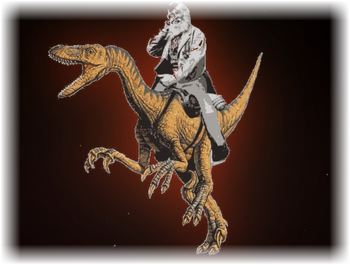
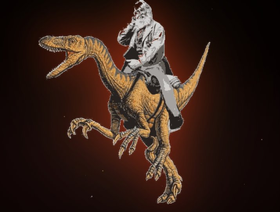
v0.8: Opaque image (no alpha bleed), 9s spacious descent, 175px landed
FIXES:
- Walt image is now opaque JPEG (RGB, no alpha channel) — impossible
  to bleed through. Dark background is baked into the image itself.
- Image lands at 175px (was 210px) — much more breathing room.
- 9-second descent from scale(0.015) at -180vh — 24 keyframe stages.
  The first 33% covers only the top half. A speck becoming a figure.
- Easing curve 0.08,0.72,0.25,1 — extremely slow start, long hang.
- Stars component removed (real Milky Way photo is the starfield).
- Phase timings: title at 9.2s, subtitle at 10.4s, button at 11.6s.

Changed region(s): [[0.0, 0.0, 1.0, 1.0]]

diff --git a/src/App.jsx b/src/App.jsx
@@ -22,9 +22,9 @@ function Splash({ onEnter, imgSrc, hornSrc }) {
   const [souls, setSouls] = useState(null);
 
   useEffect(() => {
-    const t1 = setTimeout(() => setPhase(1), 7000);
-    const t2 = setTimeout(() => setPhase(2), 8200);
-    const t3 = setTimeout(() => setPhase(3), 9400);
+    const t1 = setTimeout(() => setPhase(1), 9200);
+    const t2 = setTimeout(() => setPhase(2), 10400);
+    const t3 = setTimeout(() => setPhase(3), 11600);
     fetch("/api/count").then(r => r.json()).then(d => setSouls(d.count)).catch(() => {});
     return () => { clearTimeout(t1); clearTimeout(t2); clearTimeout(t3); };
   }, []);
@@ -56,12 +56,12 @@ function Splash({ onEnter, imgSrc, hornSrc }) {
         transition: "margin-bottom 1.5s ease",
       }}>
         <div style={{
-          animation: phase === 0 ? "paperMario 7s cubic-bezier(0.12,0.7,0.28,1) forwards" : "none",
+          animation: phase === 0 ? "paperMario 9s cubic-bezier(0.08,0.72,0.25,1) forwards" : "none",
           transform: phase >= 1 ? "translateY(0) rotateY(0deg) scale(1)" : undefined,
           transformStyle: "preserve-3d",
         }}>
           <img src={imgSrc} alt="Walt Whitman, Cowboy of Time, astride his dinosaur steed" style={{
-            width: "min(210px, 42vw)", height: "auto",
+            width: "min(175px, 35vw)", height: "auto",
             borderRadius: 4,
             transition: "all 1.5s ease",
           }} />
@@ -147,27 +147,7 @@ function Splash({ onEnter, imgSrc, hornSrc }) {
   );
 }
 
-function Stars() {
-  const stars = useRef(Array.from({ length: 160 }, (_, i) => ({
-    x: Math.random() * 100, y: Math.random() * 100,
-    s: i < 30 ? Math.random() * 2.5 + 1 : i < 80 ? Math.random() * 1.2 + 0.4 : Math.random() * 0.7 + 0.2,
-    d: 2 + Math.random() * 5,
-    o: i < 30 ? 0.4 + Math.random() * 0.4 : i < 80 ? 0.15 + Math.random() * 0.35 : 0.08 + Math.random() * 0.2,
-    r: 180 + Math.random() * 75, g: 120 + Math.random() * 100, b: 60 + Math.random() * 120,
-  }))).current;
-  return (
-    <div style={{ position: "absolute", inset: 0, pointerEvents: "none" }}>
-      {stars.map((s, i) => (
-        <div key={i} style={{
-          position: "absolute", width: s.s, height: s.s, borderRadius: "50%",
-          background: `rgba(${s.r},${s.g},${s.b},${s.o})`,
-          left: `${s.x}%`, top: `${s.y}%`,
-          animation: `twinkle ${s.d}s ease-in-out infinite ${Math.random() * 5}s`,
-        }} />
-      ))}
-    </div>
-  );
-}
+
 
 /* ─── EXPANDABLE TREE ─── */
 
@@ -578,7 +558,7 @@ export default function App() {
     }).catch(() => {});
 
     fetch("/walt_tree_data.json").then(r => r.json()).then(setTreeData).catch(() => {});
-    fetch("/whitman_on_a_dinosaur.png").then(r => r.blob()).then(b => setImgSrc(URL.createObjectURL(b))).catch(() => {});
+    fetch("/whitman_on_a_dinosaur.jpg").then(r => r.blob()).then(b => setImgSrc(URL.createObjectURL(b))).catch(() => {});
     fetch("/horn_logo.png").then(r => r.blob()).then(b => setHornSrc(URL.createObjectURL(b))).catch(() => {});
   }, []);
 
@@ -586,29 +566,30 @@ export default function App() {
     <>
       <style>{`
         @keyframes paperMario {
-          0%  { transform: translateY(-150vh) rotateY(0deg) scale(0.03); opacity: 0; }
-          2%  { transform: translateY(-148vh) rotateY(30deg) scale(0.035); opacity: 0.15; }
-          5%  { transform: translateY(-142vh) rotateY(90deg) scale(0.045); opacity: 0.3; }
-          9%  { transform: translateY(-132vh) rotateY(200deg) scale(0.06); opacity: 0.45; }
-          14% { transform: translateY(-118vh) rotateY(360deg) scale(0.09); opacity: 0.55; }
-          19% { transform: translateY(-104vh) rotateY(520deg) scale(0.13); opacity: 0.65; }
-          25% { transform: translateY(-88vh) rotateY(700deg) scale(0.18); opacity: 0.75; }
-          31% { transform: translateY(-74vh) rotateY(860deg) scale(0.25); opacity: 0.82; }
-          37% { transform: translateY(-60vh) rotateY(1000deg) scale(0.33); opacity: 0.88; }
-          44% { transform: translateY(-46vh) rotateY(1100deg) scale(0.42); opacity: 0.93; }
-          51% { transform: translateY(-34vh) rotateY(1180deg) scale(0.52); opacity: 0.96; }
-          58% { transform: translateY(-24vh) rotateY(1240deg) scale(0.62); opacity: 1; }
-          65% { transform: translateY(-16vh) rotateY(1290deg) scale(0.72); }
-          72% { transform: translateY(-9vh) rotateY(1335deg) scale(0.81); }
-          79% { transform: translateY(-4vh) rotateY(1370deg) scale(0.89); }
-          86% { transform: translateY(-0.5vh) rotateY(1400deg) scale(0.95); }
-          91% { transform: translateY(1.5vh) rotateY(1425deg) scale(0.99); }
-          96% { transform: translateY(-0.3vh) rotateY(1437deg) scale(1.0); }
+          0%   { transform: translateY(-180vh) rotateY(0deg) scale(0.015); opacity: 0; }
+          1%   { transform: translateY(-178vh) rotateY(15deg) scale(0.017); opacity: 0.08; }
+          3%   { transform: translateY(-172vh) rotateY(45deg) scale(0.02); opacity: 0.15; }
+          5%   { transform: translateY(-165vh) rotateY(90deg) scale(0.025); opacity: 0.22; }
+          8%   { transform: translateY(-155vh) rotateY(160deg) scale(0.035); opacity: 0.3; }
+          11%  { transform: translateY(-142vh) rotateY(250deg) scale(0.05); opacity: 0.38; }
+          15%  { transform: translateY(-128vh) rotateY(360deg) scale(0.07); opacity: 0.46; }
+          19%  { transform: translateY(-114vh) rotateY(480deg) scale(0.10); opacity: 0.53; }
+          23%  { transform: translateY(-100vh) rotateY(600deg) scale(0.14); opacity: 0.60; }
+          28%  { transform: translateY(-86vh) rotateY(720deg) scale(0.19); opacity: 0.67; }
+          33%  { transform: translateY(-72vh) rotateY(830deg) scale(0.25); opacity: 0.74; }
+          38%  { transform: translateY(-60vh) rotateY(930deg) scale(0.32); opacity: 0.80; }
+          44%  { transform: translateY(-48vh) rotateY(1020deg) scale(0.40); opacity: 0.86; }
+          50%  { transform: translateY(-38vh) rotateY(1090deg) scale(0.48); opacity: 0.91; }
+          56%  { transform: translateY(-28vh) rotateY(1150deg) scale(0.56); opacity: 0.95; }
+          62%  { transform: translateY(-20vh) rotateY(1210deg) scale(0.64); opacity: 0.98; }
+          68%  { transform: translateY(-14vh) rotateY(1265deg) scale(0.72); opacity: 1; }
+          74%  { transform: translateY(-8vh) rotateY(1315deg) scale(0.80); }
+          80%  { transform: translateY(-4vh) rotateY(1355deg) scale(0.87); }
+          86%  { transform: translateY(-1vh) rotateY(1390deg) scale(0.93); }
+          91%  { transform: translateY(1vh) rotateY(1420deg) scale(0.97); }
+          95%  { transform: translateY(-0.3vh) rotateY(1435deg) scale(0.99); }
+          98%  { transform: translateY(0.1vh) rotateY(1439deg) scale(1.0); }
           100% { transform: translateY(0) rotateY(1440deg) scale(1.0); opacity: 1; }
-        }
-        @keyframes twinkle {
-          0%, 100% { opacity: 0.15; }
-          50% { opacity: 0.8; }
         }
         @keyframes fadeIn {
           from { opacity: 0; } to { opacity: 1; }
